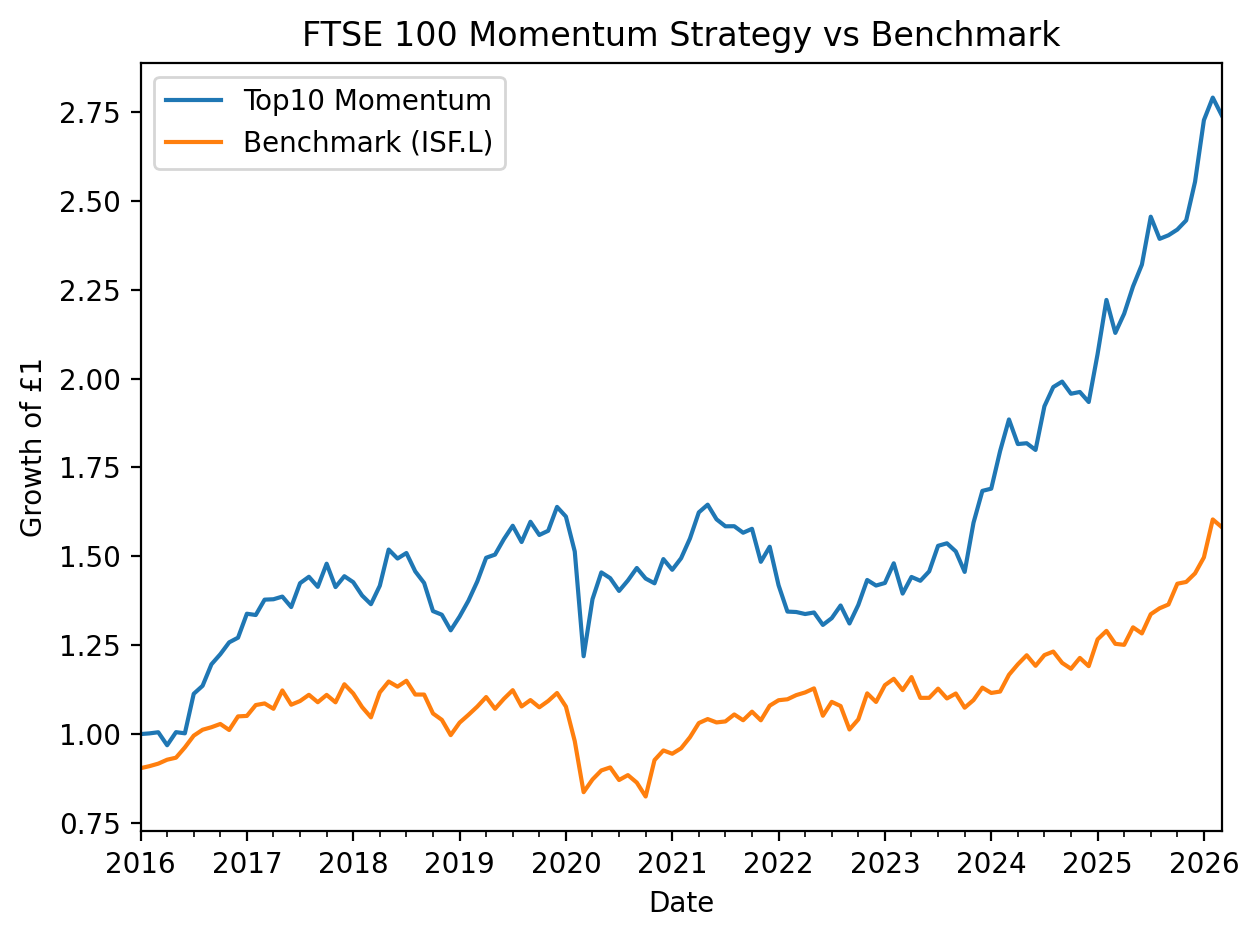
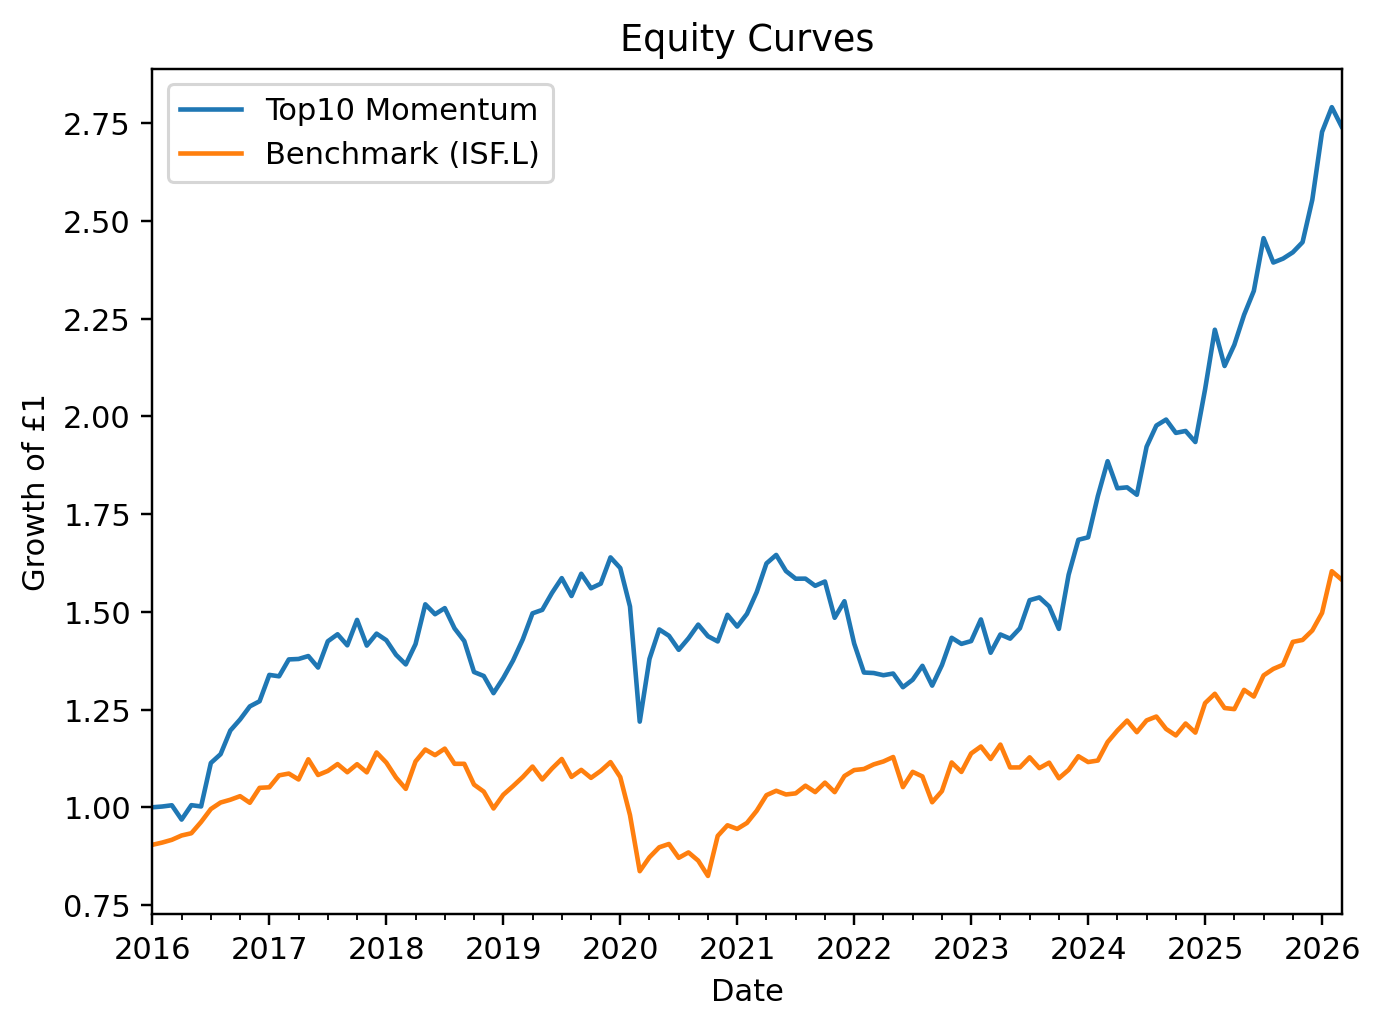
Update README with final performance metrics

diff --git a/run.py b/run.py
@@ -4,8 +4,11 @@ from pathlib import Path
 from src.universe import get_ftse100_tickers
 from src.data import download_prices
 from src.backtest import backtest_topN_momentum
-from src.metrics import sharpe, max_drawdown, beta
-
+from src.metrics import (
+    sharpe, max_drawdown, beta,
+    drawdown_series, rolling_sharpe,
+    cagr, annual_vol
+)
 
 BASE = Path(__file__).resolve().parent
 IMG = BASE / "images"
@@ -15,7 +18,7 @@ OUT.mkdir(exist_ok=True)
 
 def savefig(name: str):
     plt.tight_layout()
-    plt.savefig(IMG / name, dpi=200, bbox_inches="tight")
+    plt.savefig(IMG / name, dpi=220, bbox_inches="tight")
     plt.close()
 
 def main():
@@ -25,39 +28,77 @@ def main():
     prices = download_prices(tickers, start="2015-01-01")
     print(f"Price matrix shape: {prices.shape}")
 
-    equity = backtest_topN_momentum(prices, top_n=10, cost_bps_per_turnover=10)
+    # IMPORTANT: this returns 3 values now
+    equity, strat_ret, turnover = backtest_topN_momentum(
+        prices, top_n=10, cost_bps_per_turnover=10
+    )
 
-    # Benchmark: iShares Core FTSE 100 UCITS ETF (London)
+    # Benchmark
     bench_prices = download_prices(["ISF.L"], start="2015-01-01")
     bench = bench_prices["ISF.L"].resample("ME").last()
     bench_equity = (bench.pct_change().fillna(0) + 1).cumprod()
+    bench_equity = bench_equity.reindex(equity.index).dropna()
+    bench_ret = bench_equity.pct_change().dropna()
 
+    # 1) Equity curve
     plt.figure()
     equity.plot(label="Top10 Momentum")
-    bench_equity.reindex(equity.index).plot(label="Benchmark (ISF.L)")
-    plt.title("FTSE 100 Momentum Strategy vs Benchmark")
+    bench_equity.plot(label="Benchmark (ISF.L)")
+    plt.title("Equity Curves")
     plt.xlabel("Date")
     plt.ylabel("Growth of £1")
     plt.legend()
     savefig("equity_curves.png")
 
-    strat_ret = equity.pct_change().dropna()
-    bench_ret = bench_equity.reindex(equity.index).pct_change().dropna()
+    # 2) Drawdown
+    dd = drawdown_series(equity)
+    plt.figure()
+    dd.plot()
+    plt.title("Drawdown (Strategy)")
+    plt.xlabel("Date")
+    plt.ylabel("Drawdown")
+    savefig("drawdown.png")
+
+    # 3) Rolling Sharpe
+    rs = rolling_sharpe(strat_ret.dropna(), window=36, rf_annual=0.02)
+    plt.figure()
+    rs.plot()
+    plt.axhline(0)
+    plt.title("Rolling Sharpe (36-month)")
+    plt.xlabel("Date")
+    plt.ylabel("Sharpe")
+    savefig("rolling_sharpe_36m.png")
+
+    # 4) Turnover
+    plt.figure()
+    turnover.plot()
+    plt.title("Monthly Turnover")
+    plt.xlabel("Date")
+    plt.ylabel("Turnover")
+    savefig("turnover.png")
+
+    # Metrics
+    aligned = strat_ret.to_frame("strat").join(
+        bench_ret.to_frame("bench"), how="inner"
+    ).dropna()
 
     summary = {
-        "Sharpe": sharpe(strat_ret),
-        "MaxDrawdown": max_drawdown(equity),
-        "Beta": beta(strat_ret, bench_ret),
         "StartDate": str(equity.index.min().date()),
         "EndDate": str(equity.index.max().date()),
+        "CAGR": cagr(equity),
+        "AnnualVol": annual_vol(strat_ret.dropna()),
+        "Sharpe": sharpe(strat_ret.dropna()),
+        "MaxDrawdown": max_drawdown(equity),
+        "Beta_vs_ISF": beta(aligned["strat"], aligned["bench"]),
+        "AvgMonthlyTurnover": float(turnover.dropna().mean()),
     }
 
     (OUT / "performance_summary.txt").write_text(
         "\n".join([f"{k}: {v}" for k, v in summary.items()])
     )
 
-    print("✅ Saved chart to:", IMG / "equity_curves.png")
-    print("✅ Saved metrics to:", OUT / "performance_summary.txt")
+    print("✅ Saved charts to:", IMG)
+    print("✅ Updated summary to:", OUT / "performance_summary.txt")
 
 if __name__ == "__main__":
     main()

diff --git a/src/metrics.py b/src/metrics.py
@@ -6,15 +6,42 @@ def max_drawdown(equity_curve: pd.Series) -> float:
     dd = equity_curve / peak - 1.0
     return float(dd.min())
 
+def drawdown_series(equity_curve: pd.Series) -> pd.Series:
+    peak = equity_curve.cummax()
+    dd = equity_curve / peak - 1.0
+    dd.name = "Drawdown"
+    return dd
+
 def sharpe(returns: pd.Series, rf_annual: float = 0.02) -> float:
-    rf_daily = rf_annual / 252
-    excess = returns - rf_daily
-    return float(np.sqrt(252) * excess.mean() / excess.std()) if excess.std() != 0 else np.nan
+    rf_period = rf_annual / 12  # monthly RF because our returns are monthly
+    excess = returns - rf_period
+    if excess.std() == 0:
+        return float("nan")
+    return float(np.sqrt(12) * excess.mean() / excess.std())
+
+def rolling_sharpe(returns: pd.Series, window: int = 36, rf_annual: float = 0.02) -> pd.Series:
+    rf_period = rf_annual / 12
+    excess = returns - rf_period
+    rs = (np.sqrt(12) * excess.rolling(window).mean() / excess.rolling(window).std())
+    rs.name = f"RollingSharpe_{window}m"
+    return rs
 
 def beta(strategy_ret: pd.Series, bench_ret: pd.Series) -> float:
     aligned = pd.concat([strategy_ret, bench_ret], axis=1).dropna()
     x = aligned.iloc[:, 1].values
     y = aligned.iloc[:, 0].values
     if x.var() == 0:
-        return np.nan
+        return float("nan")
     return float(np.cov(y, x)[0, 1] / x.var())
+
+def cagr(equity_curve: pd.Series, periods_per_year: int = 12) -> float:
+    equity_curve = equity_curve.dropna()
+    if len(equity_curve) < 2:
+        return float("nan")
+    years = (len(equity_curve) - 1) / periods_per_year
+    if years <= 0:
+        return float("nan")
+    return float((equity_curve.iloc[-1] / equity_curve.iloc[0]) ** (1 / years) - 1)
+
+def annual_vol(returns: pd.Series, periods_per_year: int = 12) -> float:
+    return float(np.sqrt(periods_per_year) * returns.std())

diff --git a/README.md b/README.md
@@ -19,21 +19,34 @@ The strategy:
 
 ## Results
 
+## Results
+
 Backtest Period: Jan 2016 – Mar 2026
 
 | Metric | Value |
-|--------|-------|
-| Sharpe Ratio | 3.52 |
+|--------|--------|
+| CAGR | 10.43% |
+| Annual Volatility | 14.10% |
+| Sharpe Ratio | 0.63 |
 | Max Drawdown | -25.6% |
-| Beta (vs FTSE ETF) | 0.79 |
+| Beta vs FTSE ETF | 0.79 |
+| Avg Monthly Turnover | 24.9% |
 
-The strategy produced strong risk-adjusted returns over the sample period, with lower market beta and controlled drawdowns relative to the benchmark.
+The strategy delivered double-digit annualized returns with sub-market beta exposure. 
+Risk-adjusted performance (Sharpe 0.63) was achieved with controlled drawdowns 
+and moderate turnover, reflecting a systematic but implementable momentum approach.
 
-Note: The universe uses a static FTSE constituent list, which may introduce survivorship bias. This project is intended as a systematic strategy demonstration rather than an institutional-grade production backtest.
+Note: The universe uses a static FTSE constituent list and does not account for 
+delistings or index reconstitutions. The project is intended as a research demonstration.
 
 ## Example Output
 
-![Equity Curve](images/equity_curves.png)
+## Example Output
+
+![Equity Curves](images/equity_curves.png)
+![Drawdown](images/drawdown.png)
+![Rolling Sharpe](images/rolling_sharpe_36m.png)
+![Turnover](images/turnover.png)
 
 ## How To Run
 
